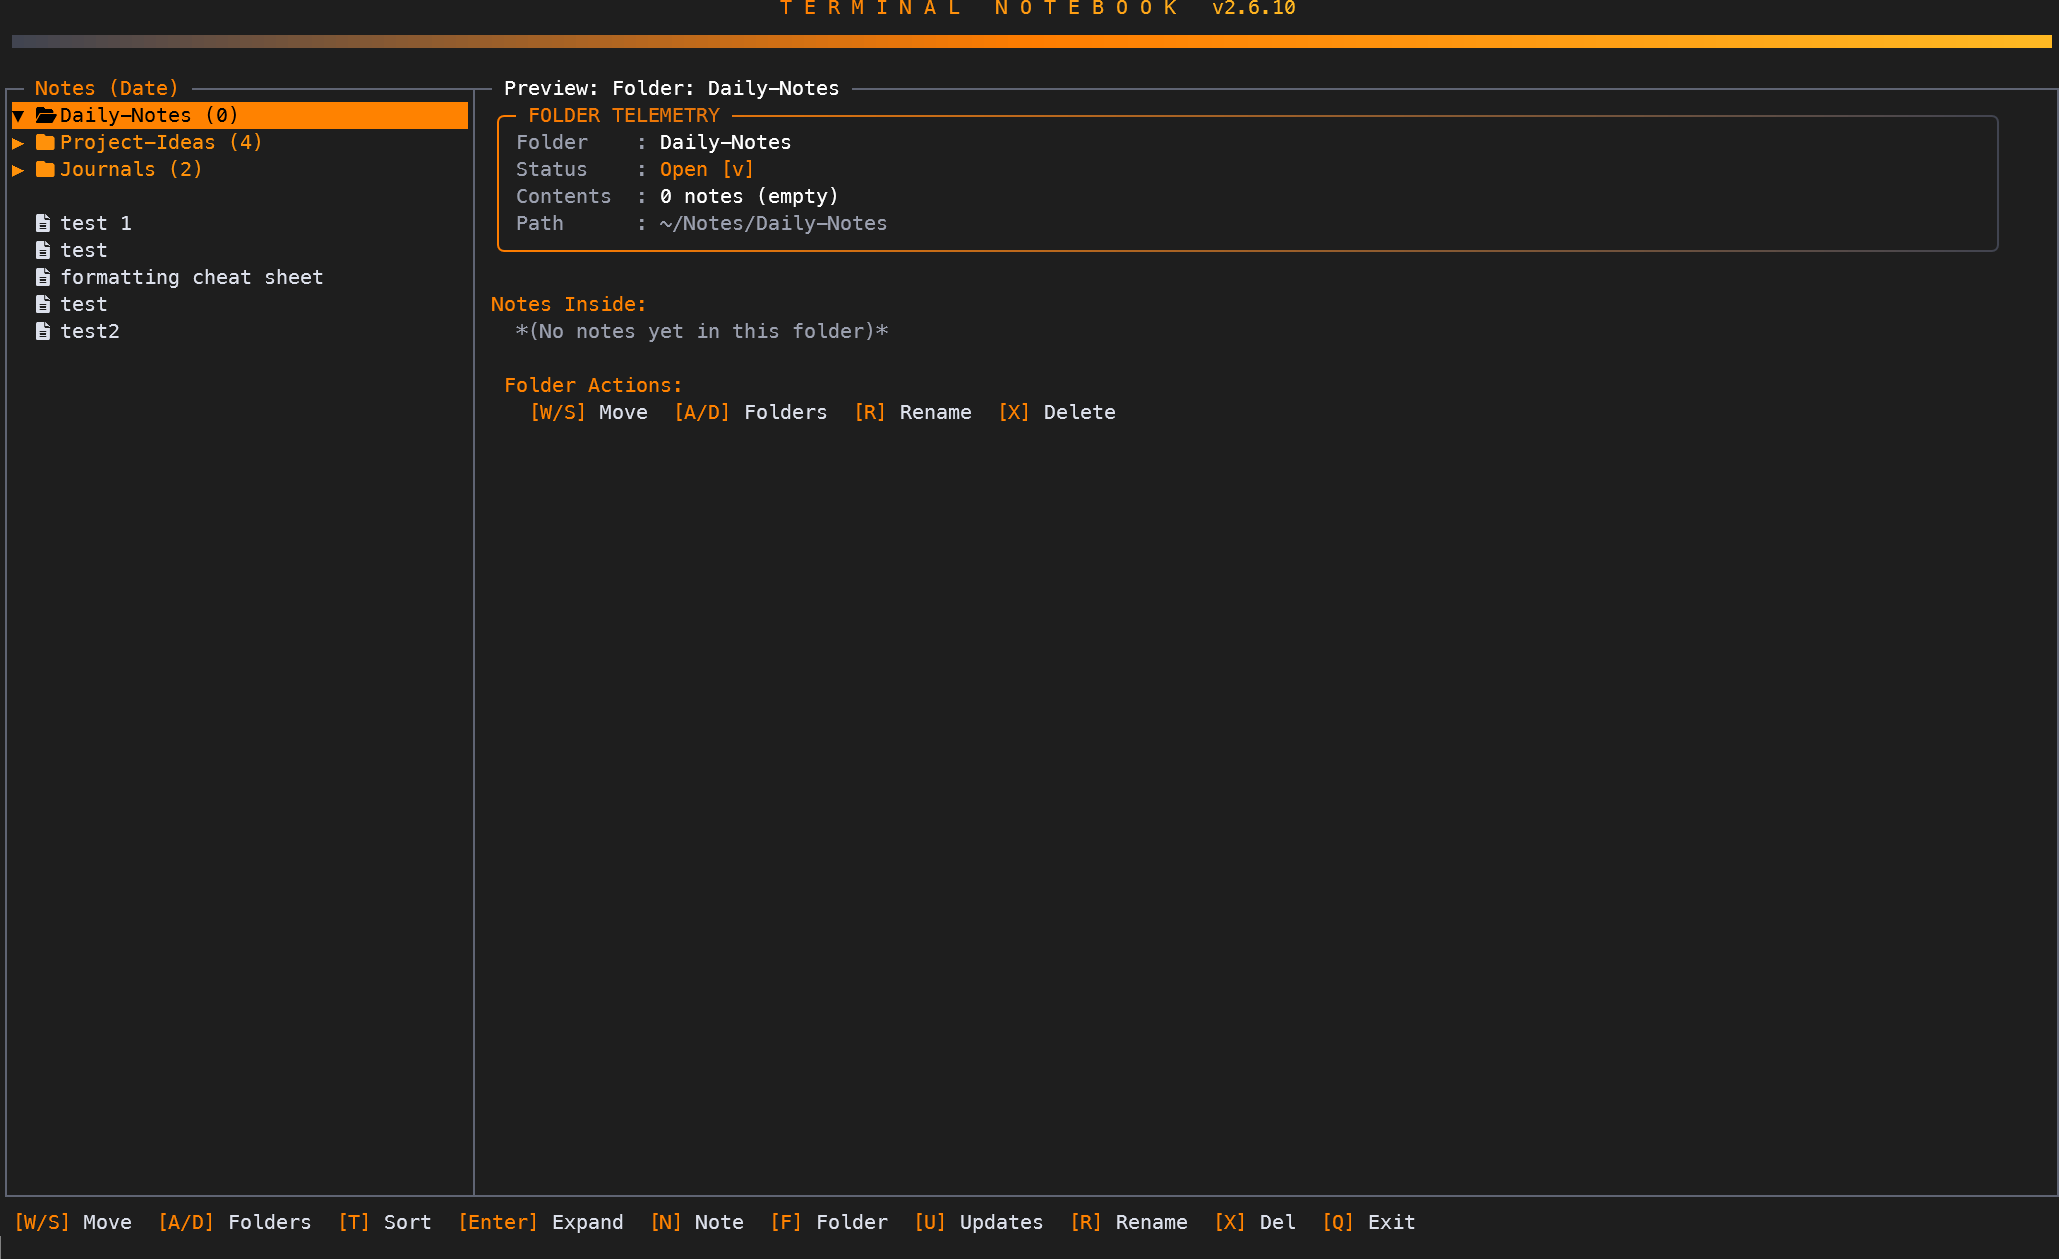
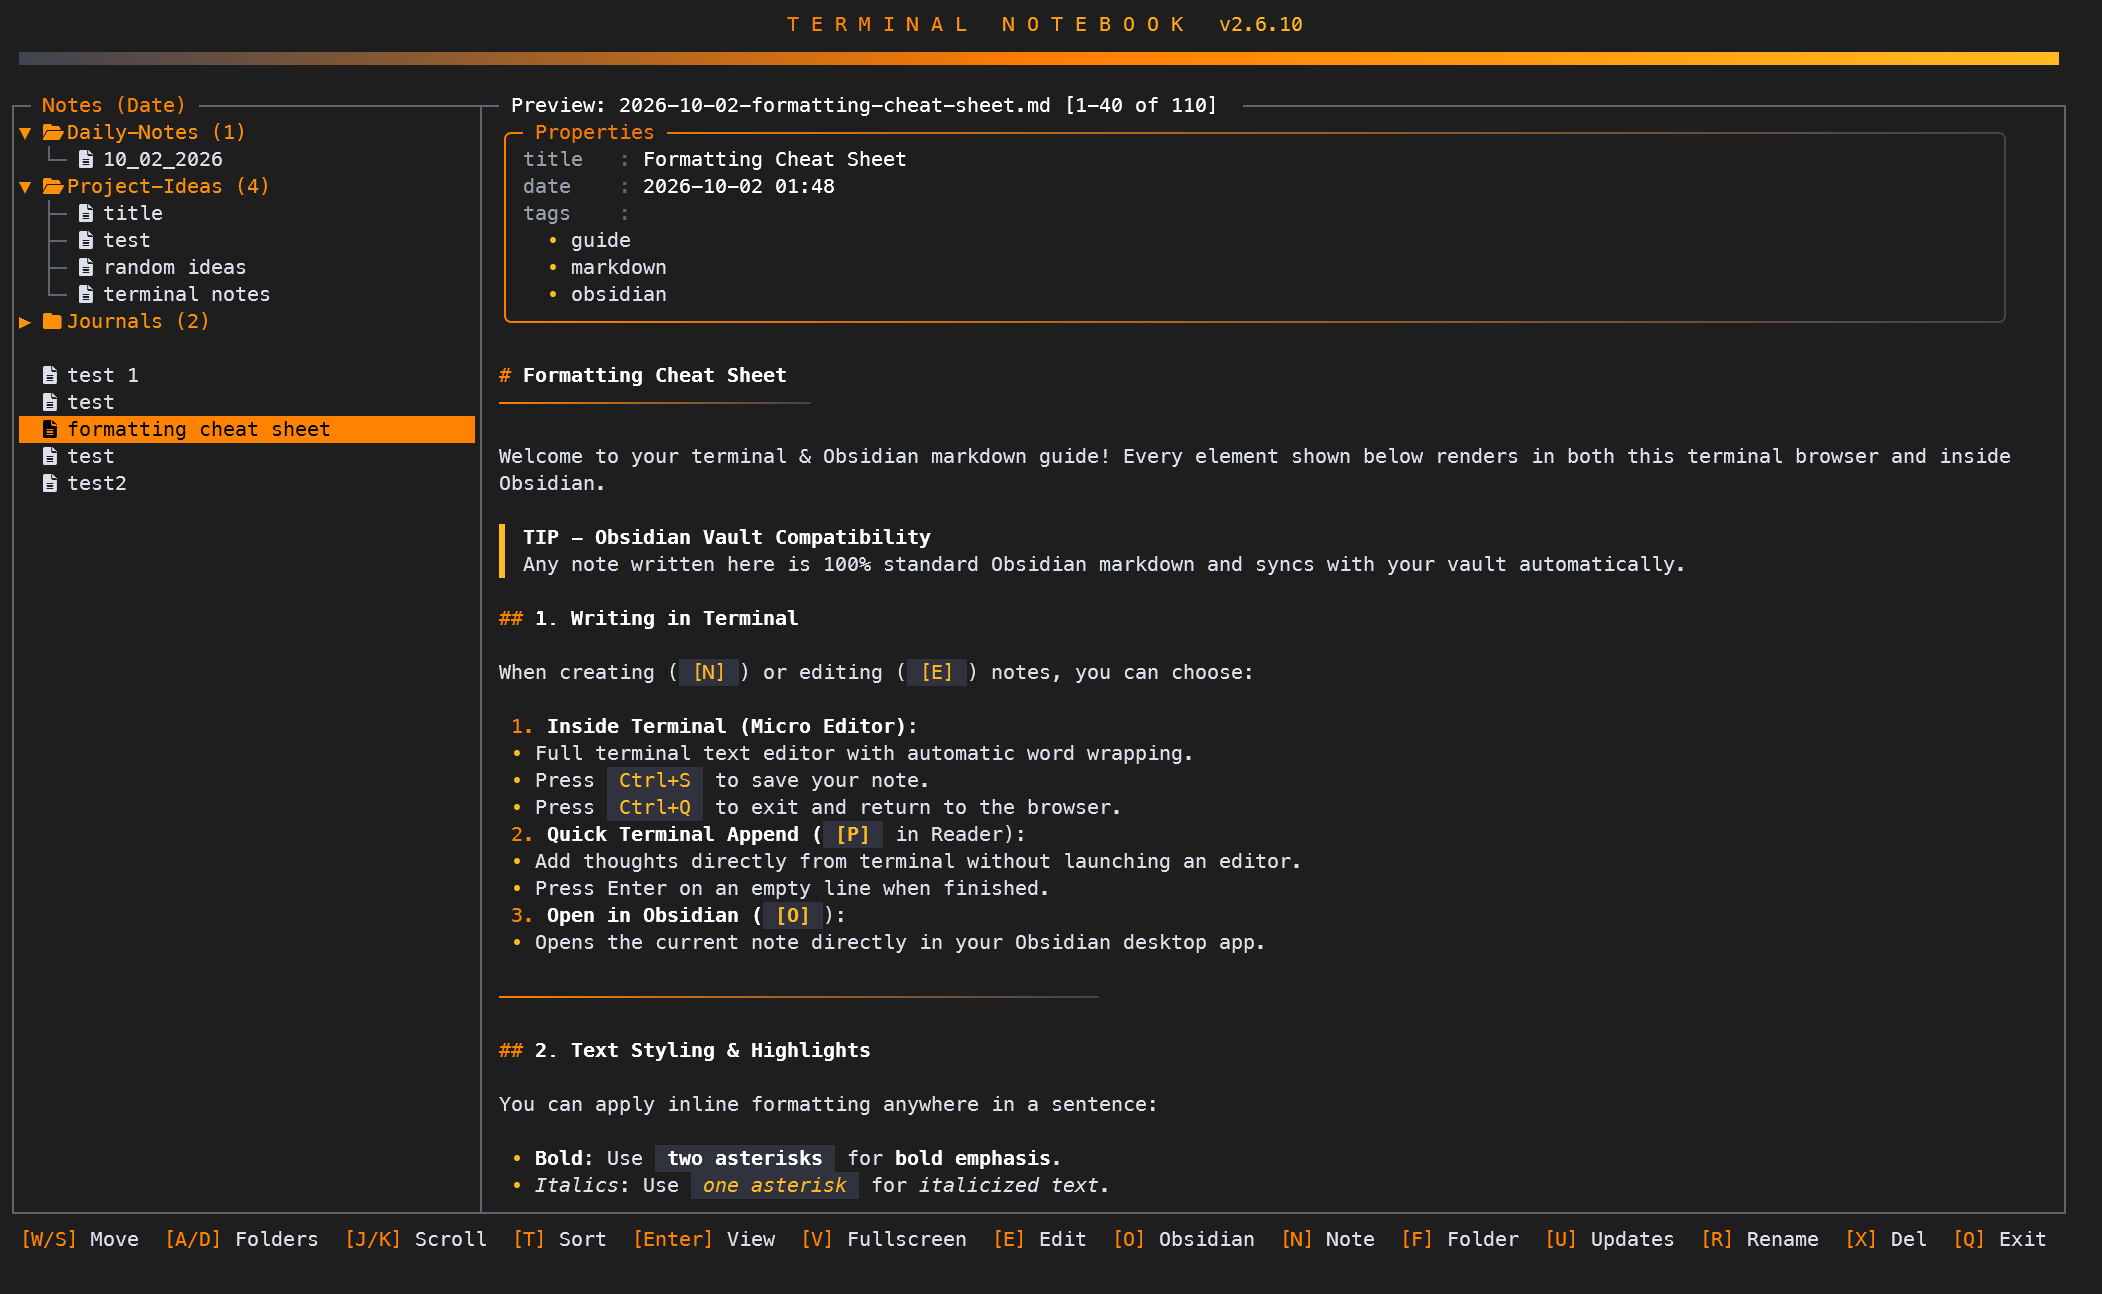
Remove screenshot placeholders from README and rollback doc-only version bumps

diff --git a/README.md b/README.md
@@ -3,7 +3,7 @@
 A blazingly fast, highly-aesthetic terminal-based notebook for browsing, writing, and organizing Markdown notes. It bridges the speed and workflow of the command line with the rich formatting and organizational power of modern note-taking apps like Obsidian.
 
 ![Terminal Notes Main UI](docs/main-ui.png)
-*(Drop a screenshot of the main Notebook Browser here!)*
+
 
 ## 🌟 Key Features
 
@@ -20,7 +20,7 @@ A blazingly fast, highly-aesthetic terminal-based notebook for browsing, writing
 * **Fullscreen Reader:** Press `V` or `Enter` to drop into a distraction-free fullscreen reading environment with built-in scrolling.
 
 ![Fullscreen Reader](docs/fullscreen-reader.png)
-*(Drop a screenshot of the Fullscreen Reader here!)*
+
 
 ### ⚡ Seamless Editing Workflows
 * **Split-Pane Editing (Windows Terminal):** When running within modern Windows Terminal, creating or editing a note instantly splits your terminal side-by-side! Edit in your preferred tool without losing sight of your folder tree.

diff --git a/RELEASE_NOTES.md b/RELEASE_NOTES.md
@@ -1,17 +1,5 @@
 # Terminal Notes Release Notes
 
-## Version 2.6.12
-**Date:** 2026-10-02
-
-### Documentation
-- **Tone Adjustment:** Removed pluralized corporate formatting ("We") from the README in favor of a more personal tone ("I").
-
-## Version 2.6.11
-**Date:** 2026-10-02
-
-### Documentation
-- **README Overhaul:** Completely rewrote `README.md` to be highly professional and comprehensive. It now accurately details the rich markdown engine, the Windows Terminal split-pane integrations, the custom TUI styling, and the Obsidian interoperability. Structured placeholders were also added for upcoming screenshot assets.
-
 ## Version 2.6.10
 **Date:** 2026-10-02
 
